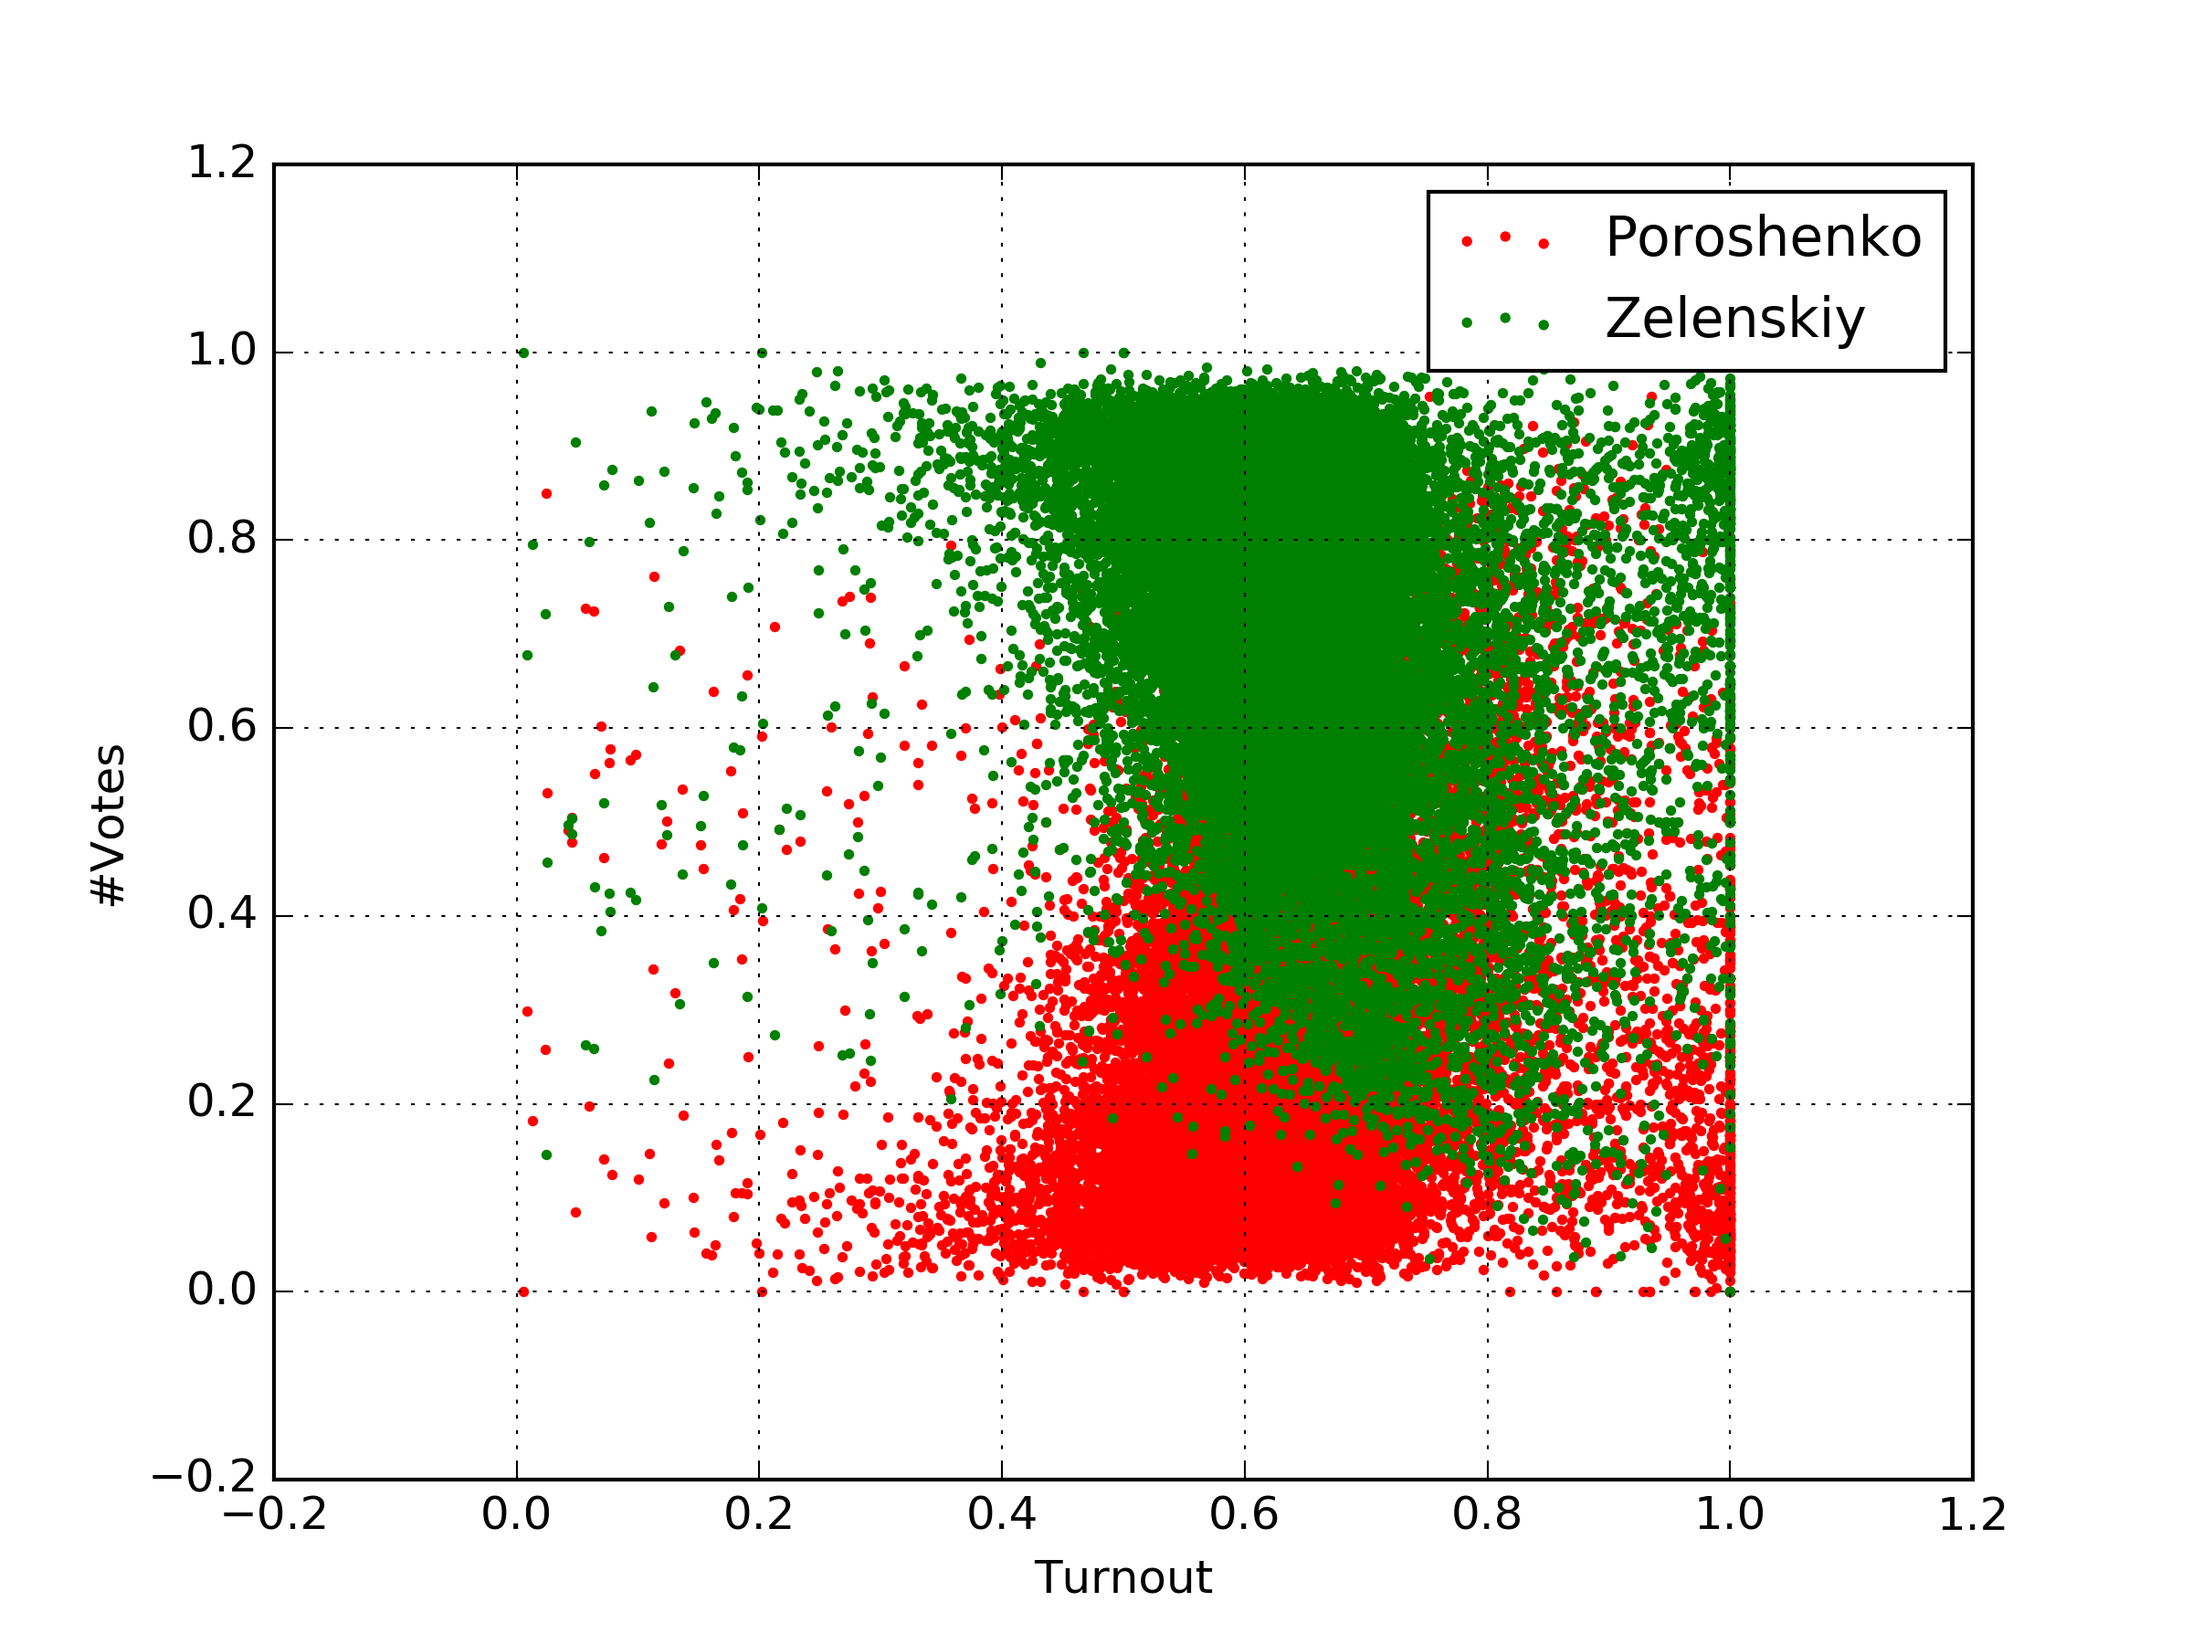
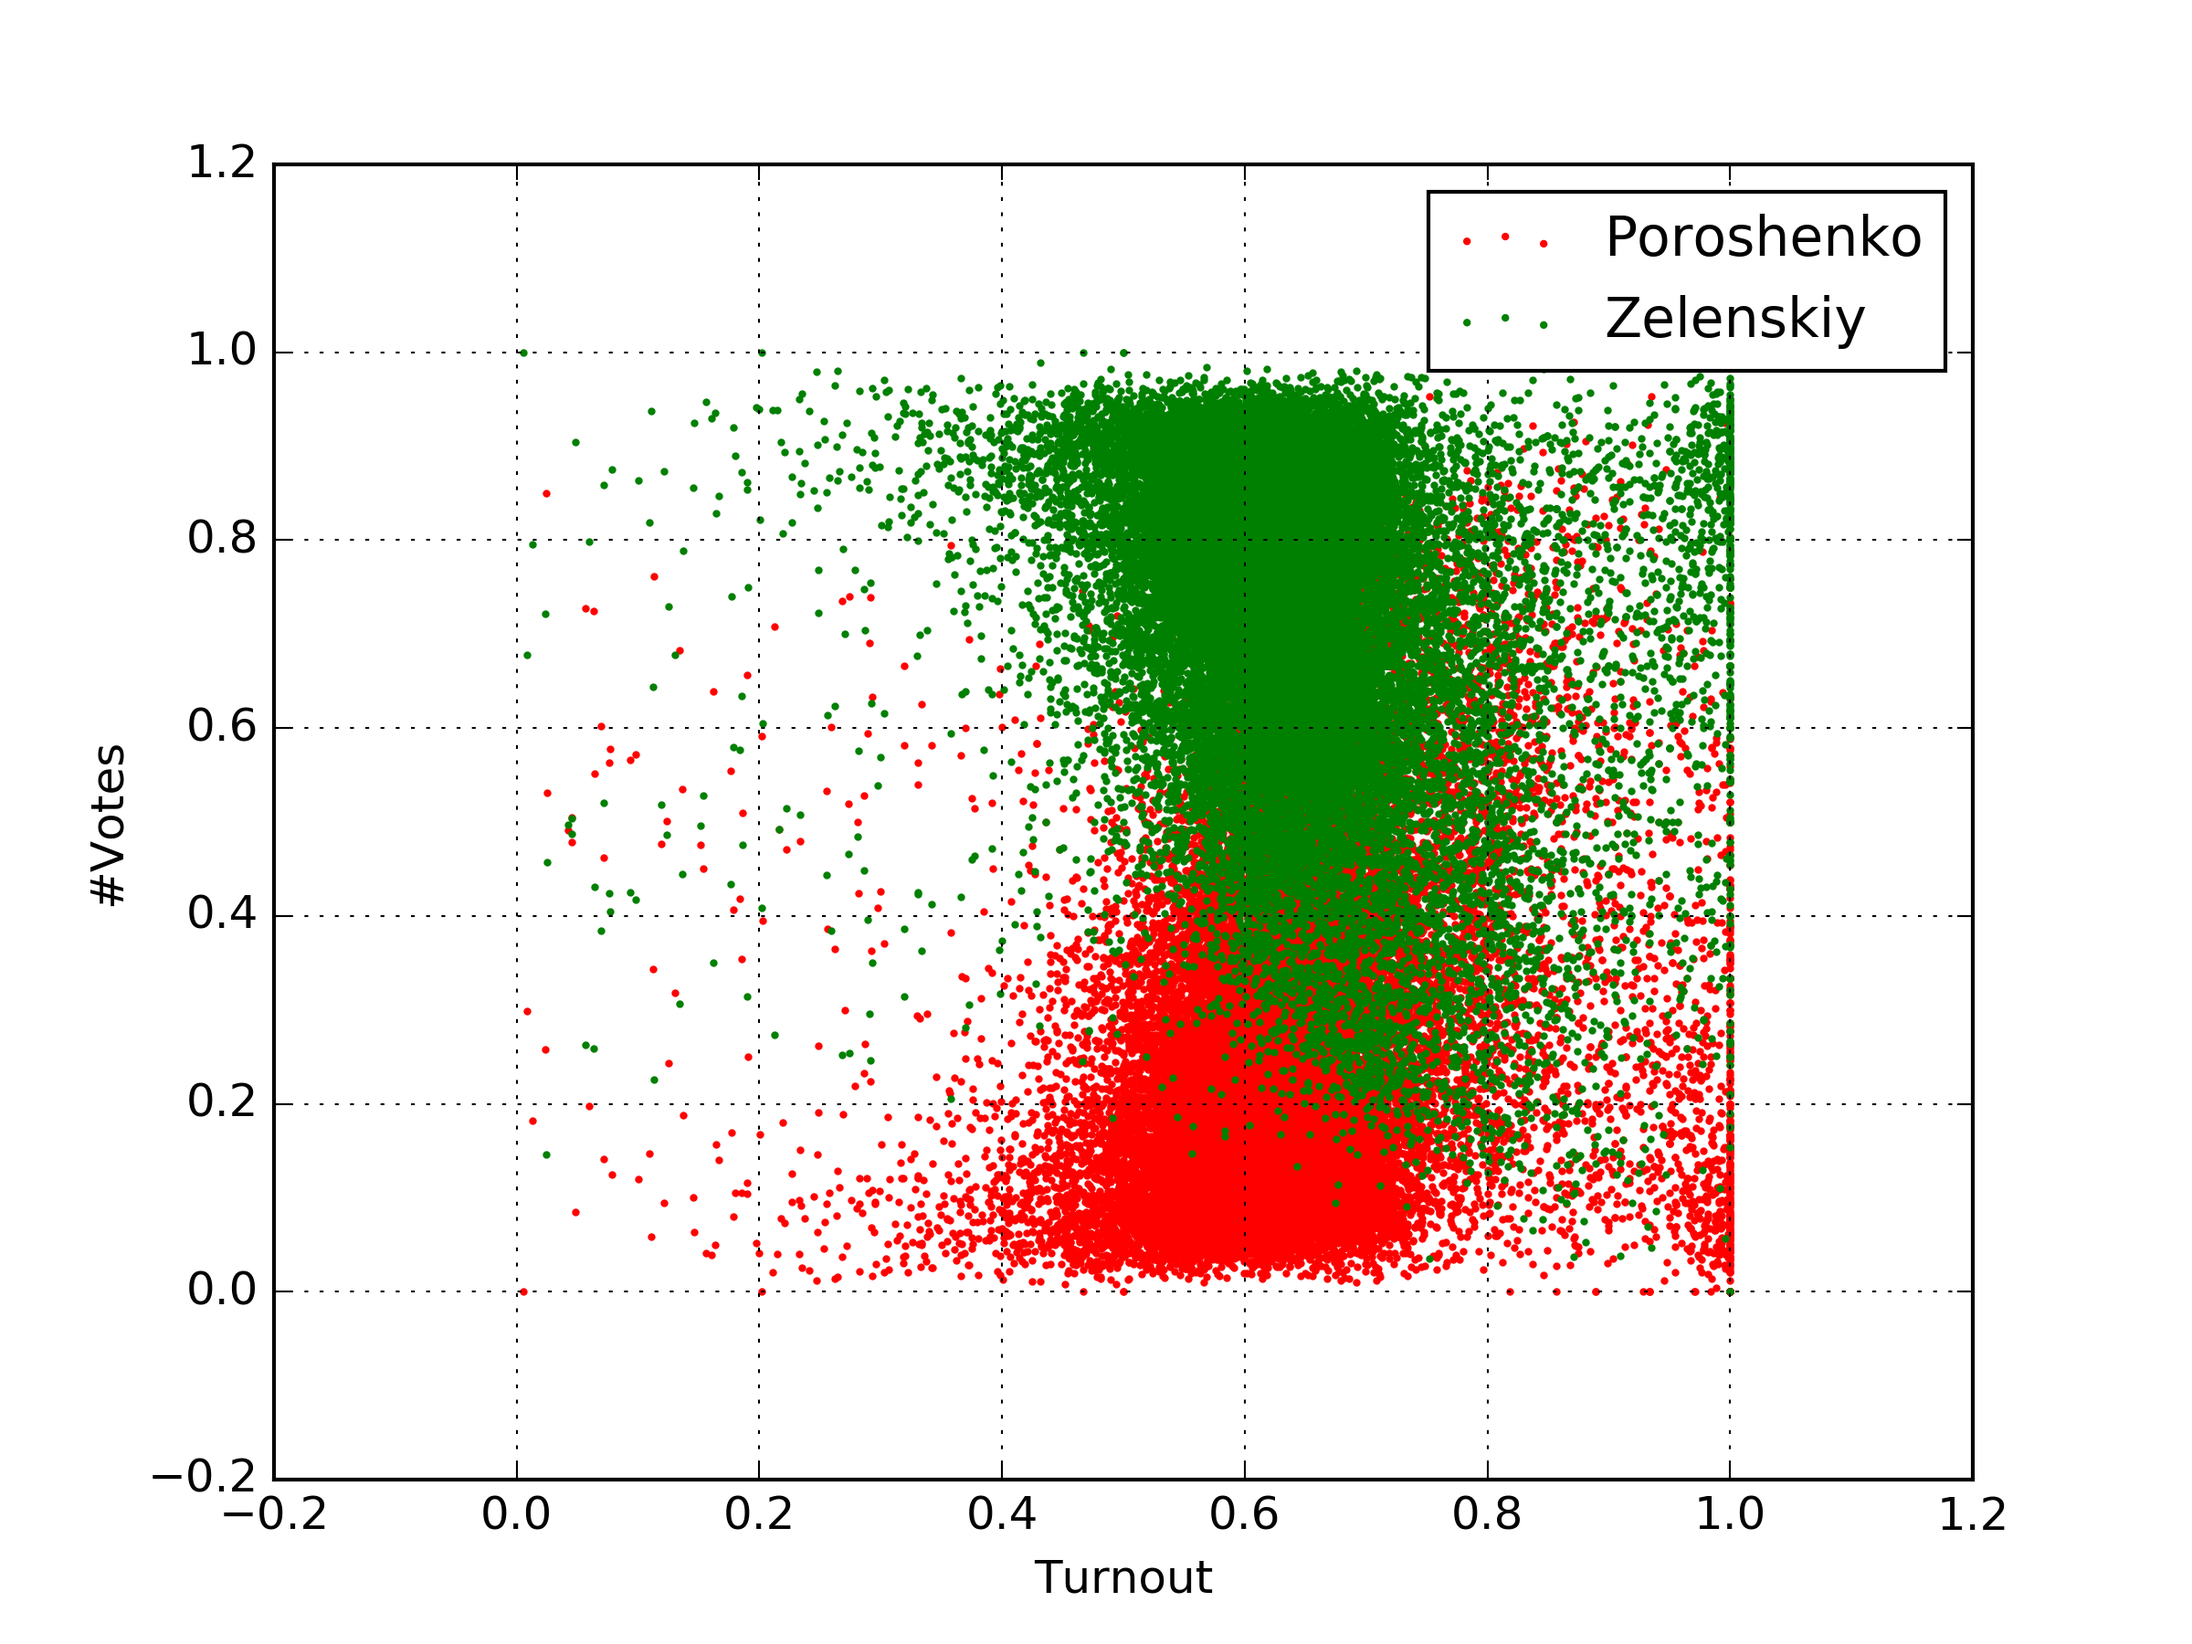
fix

Changed region(s): [[0.3438, 0.2178, 0.8125, 0.7778], [0.375, 0.56, 0.4062, 0.5911], [0.375, 0.3422, 0.4062, 0.3733]]

diff --git a/round2/hist.py b/round2/hist.py
@@ -33,6 +33,7 @@ with open("data.csv", "r") as f:
         votes = int(row[6])
         poroshenko = int(row[11])
         zelenskiy = int(row[10])
+        assert poroshenko + zelenskiy <= votes
         assert votes <= total
         assert poroshenko <= votes
         assert zelenskiy <= votes
@@ -60,8 +61,10 @@ with open("data.csv", "r") as f:
             zelenskiyBins[zelenskiyBin] += zelenskiy
             zelenskiyTurnoutBins[turnoutBin] += zelenskiy
             turnoutBin2 = int(float(NBINS2) * turnout)
-            poroshenkoTurnoutBins2[turnoutBin2] += poroshenko
-            zelenskiyTurnoutBins2[turnoutBin2] += zelenskiy
+            poroshenkoBin2 = int(float(NBINS2) * poroshenkoRatio)
+            poroshenkoTurnoutBins2[poroshenkoBin2] += poroshenko
+            zelenskiyBin2 = int(float(NBINS2) * zelenskiyRatio)
+            zelenskiyTurnoutBins2[zelenskiyBin2] += zelenskiy
 
 maxPoroshenko = 0
 maxPoroshenkoIndex = 0
@@ -80,8 +83,8 @@ for i in range(NBINS + 1):
 print("Scale: %f" % scale)
 print("Thrown in: %f" % thrownIn)
 
-plt.scatter(aturnout, aporoshenko, color='red', s=3, label="Poroshenko")
-plt.scatter(aturnout, azelenskiy, color='green', s=3, label="Zelenskiy")
+plt.scatter(aturnout, aporoshenko, color='red', s=1, label="Poroshenko")
+plt.scatter(aturnout, azelenskiy, color='green', s=1, label="Zelenskiy")
 plt.xlabel("Turnout")
 plt.ylabel("#Votes")
 plt.legend()
@@ -106,6 +109,17 @@ plt.show()
 abins2 = []
 for i in range(NBINS2 + 1):
     abins2.append(i*(100.0)/NBINS2)
+
+def smooth(seq):
+    result = [0]*len(seq)
+    result[0] = 0
+    for i in range(len(seq)):
+        result[i] += seq[i]
+        if i - 1 >= 0:
+            result[i] += result[i - 1]
+        if i - 50 >= 0:
+            result[i] -= seq[i - 50]
+    return result
 
 plt.plot(abins2, poroshenkoTurnoutBins2, color='red', label="Poroshenko")
 plt.plot(abins2, zelenskiyTurnoutBins2, color='green', label="Zelenskiy")
